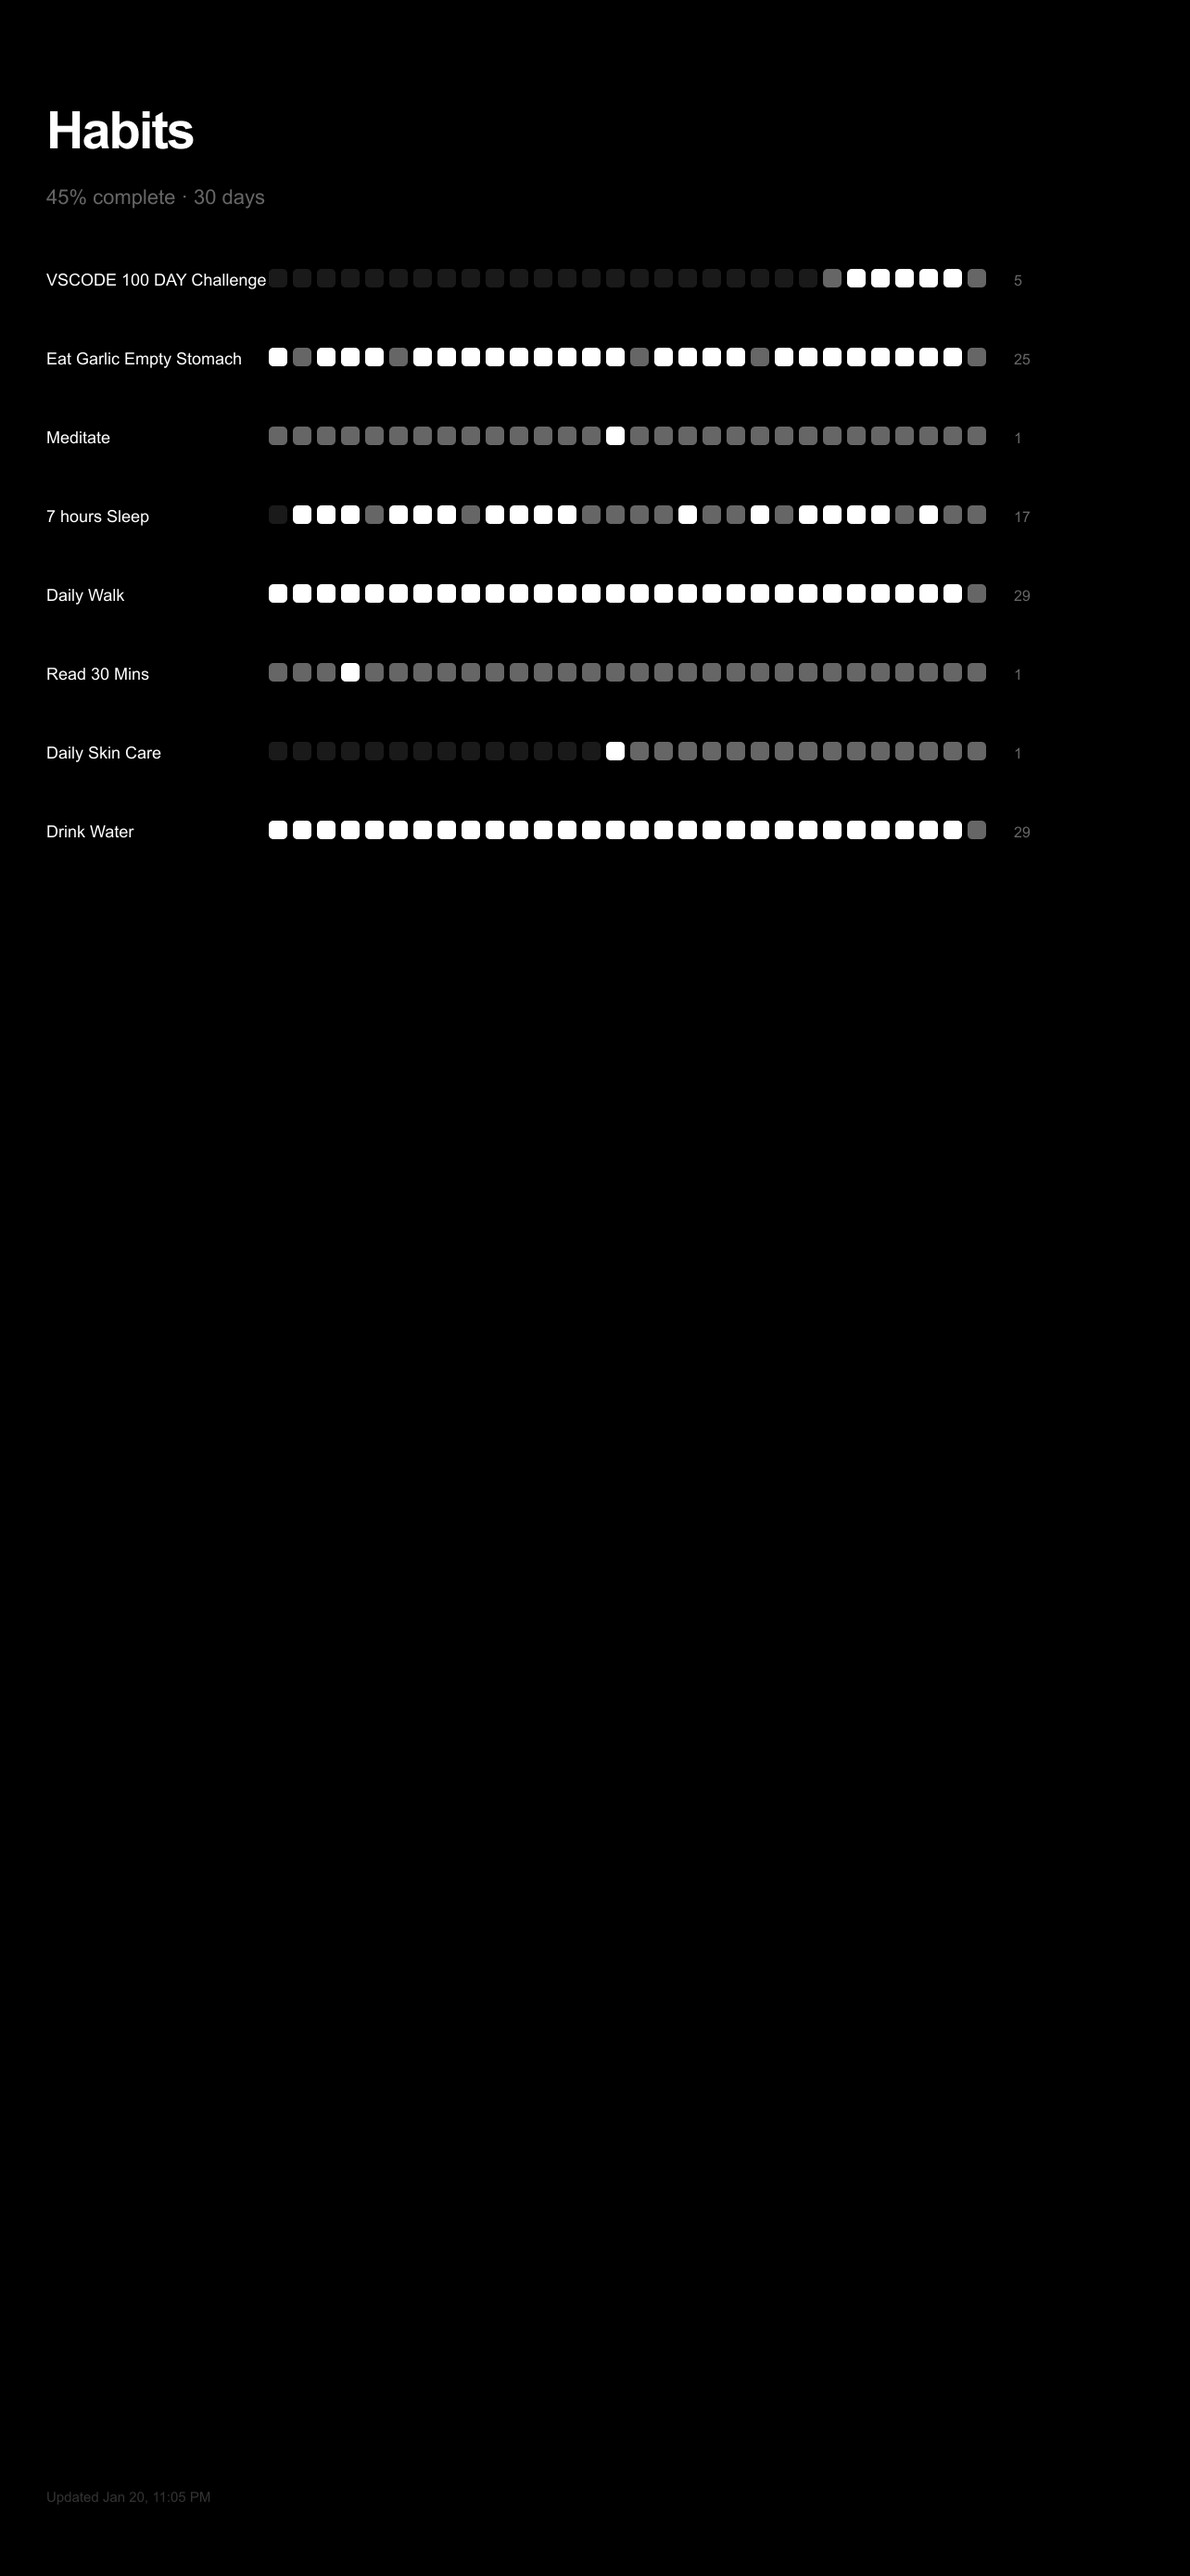
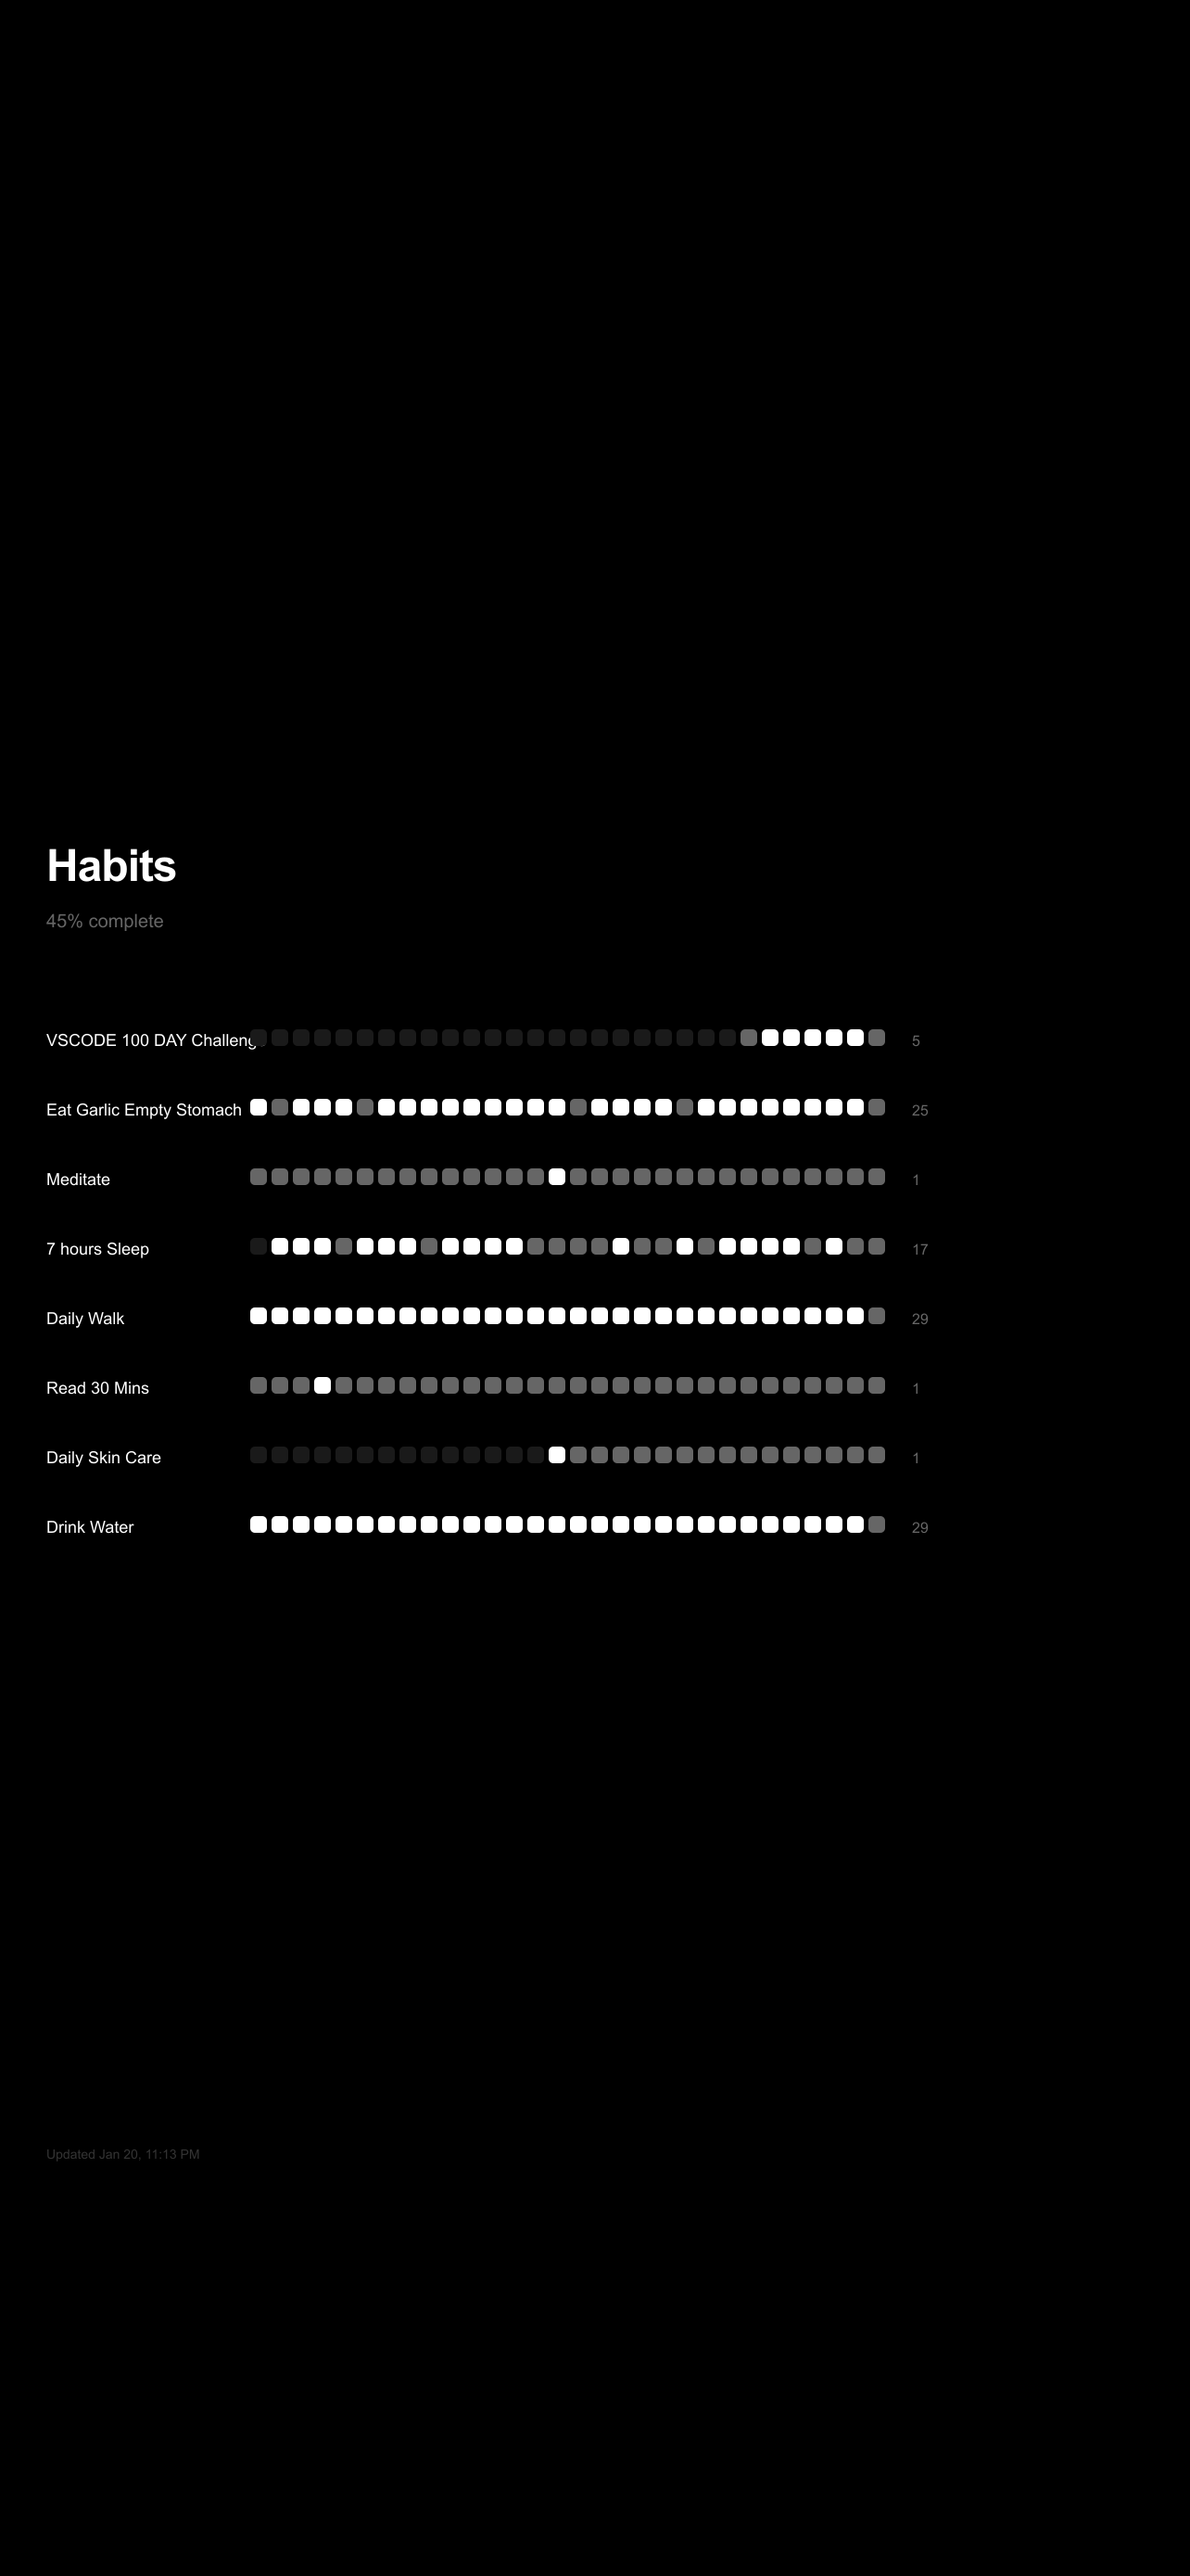
Fix lock screen safe zones and character encoding for iPhone 14 Pro Max

diff --git a/test-wallpaper.js b/test-wallpaper.js
@@ -64,12 +64,14 @@ function generateWallpaperImage(habitsData, width, height) {
   const daysToShow = habitsData[0]?.statuses.length || 30;
   
   // Dark minimalist design optimized for iPhone 14 Pro Max
+  // Lock screen safe zones: avoid top ~900px (clock area) and bottom ~400px
   const padding = 50;
-  const headerHeight = 280;
-  const cellSize = 20;
-  const cellGap = 6;
-  const rowHeight = 85;
-  const habitNameWidth = 240;
+  const startY = 950; // Start below clock
+  const headerHeight = 150;
+  const cellSize = 18;
+  const cellGap = 5;
+  const rowHeight = 75;
+  const habitNameWidth = 220;
   
   // Generate minimalist dark SVG
   let svg = `<?xml version="1.0" encoding="UTF-8"?>
@@ -78,16 +80,22 @@ function generateWallpaperImage(habitsData, width, height) {
   <!-- Dark background -->
   <rect width="${width}" height="${height}" fill="#000000"/>
   
-  <!-- Minimalist header -->
-  <text x="${padding}" y="${headerHeight - 120}" font-family="Arial, sans-serif" font-size="56" font-weight="700" fill="#ffffff" letter-spacing="-2">Habits</text>
-  <text x="${padding}" y="${headerHeight - 60}" font-family="Arial, sans-serif" font-size="22" font-weight="500" fill="#666666">${completionRate}% complete · ${daysToShow} days</text>
+  <!-- Minimalist header (below clock safe zone) -->
+  <text x="${padding}" y="${startY}" font-family="Arial, sans-serif" font-size="48" font-weight="700" fill="#ffffff" letter-spacing="-1">Habits</text>
+  <text x="${padding}" y="${startY + 50}" font-family="Arial, sans-serif" font-size="20" font-weight="500" fill="#666666">${completionRate}% complete</text>
   
   <!-- Habits Grid -->
   ${habitsData.map((habit, habitIndex) => {
-    const y = headerHeight + habitIndex * rowHeight;
+    const y = startY + headerHeight + habitIndex * rowHeight;
     const completed = habit.statuses.filter(s => s.status === 'completed').length;
-    const habitName = habit.name.replace(/[🧄🛌👣📚🧴💧⏰]/g, '').trim();
-    const shortName = habitName.length > 30 ? habitName.substring(0, 30) + '...' : habitName;
+    // Remove all emojis and special characters, escape XML entities
+    const habitName = habit.name.replace(/[\u{1F300}-\u{1F9FF}]|[\u{2600}-\u{26FF}]|[\u{2700}-\u{27BF}]/gu, '').trim();
+    const shortName = (habitName.length > 28 ? habitName.substring(0, 28) + '...' : habitName)
+      .replace(/&/g, '&amp;')
+      .replace(/</g, '&lt;')
+      .replace(/>/g, '&gt;')
+      .replace(/"/g, '&quot;')
+      .replace(/'/g, '&apos;');
     
     return `
   <!-- Habit name -->
@@ -113,8 +121,8 @@ function generateWallpaperImage(habitsData, width, height) {
     `;
   }).join('')}
   
-  <!-- Footer -->
-  <text x="${padding}" y="${height - 80}" font-family="Arial, sans-serif" font-size="15" font-weight="400" fill="#333333">Updated ${new Date().toLocaleDateString('en-US', { month: 'short', day: 'numeric', hour: '2-digit', minute: '2-digit' })}</text>
+  <!-- Footer (above bottom safe zone) -->
+  <text x="${padding}" y="${height - 450}" font-family="Arial, sans-serif" font-size="14" font-weight="400" fill="#333333">Updated ${new Date().toLocaleDateString('en-US', { month: 'short', day: 'numeric', hour: '2-digit', minute: '2-digit' })}</text>
   
 </svg>`;
   

diff --git a/api/wallpaper-image.js b/api/wallpaper-image.js
@@ -64,12 +64,14 @@ function generateWallpaperImage(habitsData, width, height) {
   const daysToShow = habitsData[0]?.statuses.length || 30;
   
   // Dark minimalist design optimized for iPhone 14 Pro Max
+  // Lock screen safe zones: avoid top ~900px (clock area) and bottom ~400px
   const padding = 50;
-  const headerHeight = 280;
-  const cellSize = 20;
-  const cellGap = 6;
-  const rowHeight = 85;
-  const habitNameWidth = 240;
+  const startY = 950; // Start below clock
+  const headerHeight = 150;
+  const cellSize = 18;
+  const cellGap = 5;
+  const rowHeight = 75;
+  const habitNameWidth = 220;
   
   // Generate minimalist dark SVG
   let svg = `<?xml version="1.0" encoding="UTF-8"?>
@@ -78,16 +80,22 @@ function generateWallpaperImage(habitsData, width, height) {
   <!-- Dark background -->
   <rect width="${width}" height="${height}" fill="#000000"/>
   
-  <!-- Minimalist header -->
-  <text x="${padding}" y="${headerHeight - 120}" font-family="Arial, sans-serif" font-size="56" font-weight="700" fill="#ffffff" letter-spacing="-2">Habits</text>
-  <text x="${padding}" y="${headerHeight - 60}" font-family="Arial, sans-serif" font-size="22" font-weight="500" fill="#666666">${completionRate}% complete · ${daysToShow} days</text>
+  <!-- Minimalist header (below clock safe zone) -->
+  <text x="${padding}" y="${startY}" font-family="Arial, sans-serif" font-size="48" font-weight="700" fill="#ffffff" letter-spacing="-1">Habits</text>
+  <text x="${padding}" y="${startY + 50}" font-family="Arial, sans-serif" font-size="20" font-weight="500" fill="#666666">${completionRate}% complete</text>
   
   <!-- Habits Grid -->
   ${habitsData.map((habit, habitIndex) => {
-    const y = headerHeight + habitIndex * rowHeight;
+    const y = startY + headerHeight + habitIndex * rowHeight;
     const completed = habit.statuses.filter(s => s.status === 'completed').length;
-    const habitName = habit.name.replace(/[🧄🛌👣📚🧴💧⏰]/g, '').trim();
-    const shortName = habitName.length > 30 ? habitName.substring(0, 30) + '...' : habitName;
+    // Remove all emojis and special characters, escape XML entities
+    const habitName = habit.name.replace(/[\u{1F300}-\u{1F9FF}]|[\u{2600}-\u{26FF}]|[\u{2700}-\u{27BF}]/gu, '').trim();
+    const shortName = (habitName.length > 28 ? habitName.substring(0, 28) + '...' : habitName)
+      .replace(/&/g, '&amp;')
+      .replace(/</g, '&lt;')
+      .replace(/>/g, '&gt;')
+      .replace(/"/g, '&quot;')
+      .replace(/'/g, '&apos;');
     
     return `
   <!-- Habit name -->
@@ -107,8 +115,8 @@ function generateWallpaperImage(habitsData, width, height) {
     
     return `<rect x="${x}" y="${y + 10}" width="${cellSize}" height="${cellSize}" rx="5" fill="${fill}" opacity="${opacity}"/>`;
   }).join('')}
-  
-  <!-- Completion count -->
+  (above bottom safe zone) -->
+  <text x="${padding}" y="${height - 450}" font-family="Arial, sans-serif" font-size="14
   <text x="${padding + habitNameWidth + daysToShow * (cellSize + cellGap) + 24}" y="${y + 28}" font-family="Arial, sans-serif" font-size="16" font-weight="500" fill="#666666">${completed}</text>
     `;
   }).join('')}
